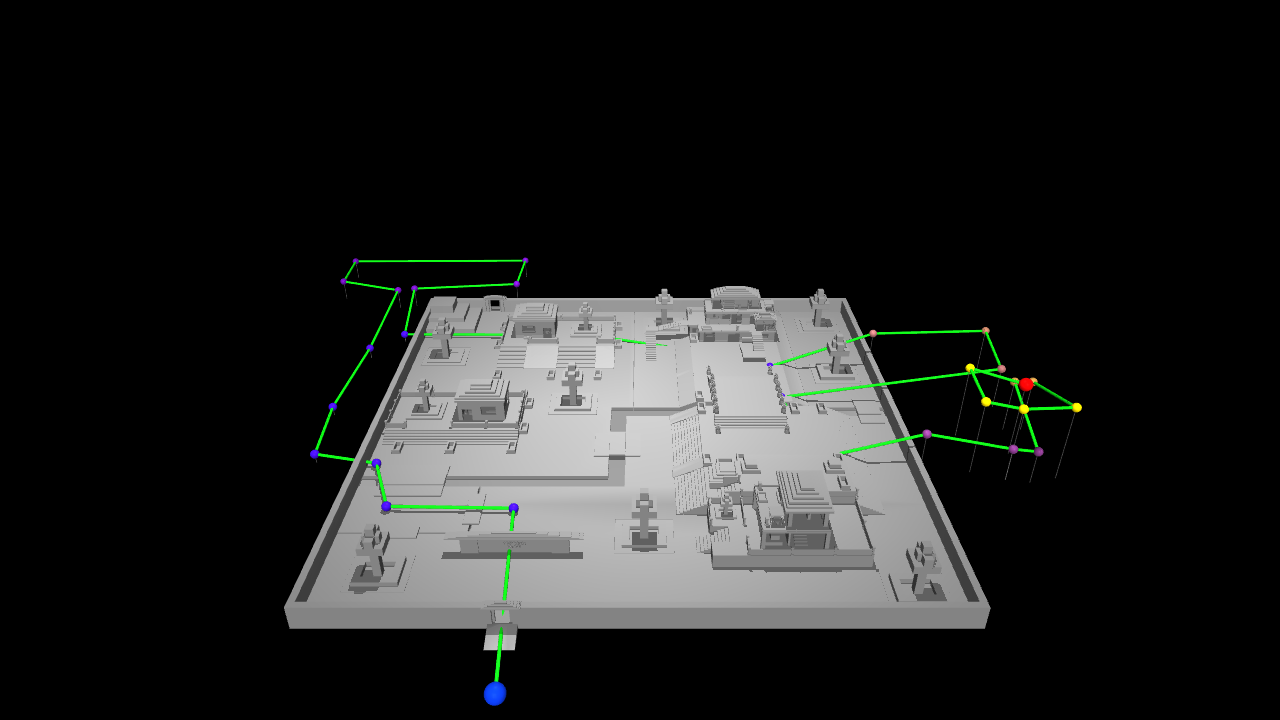
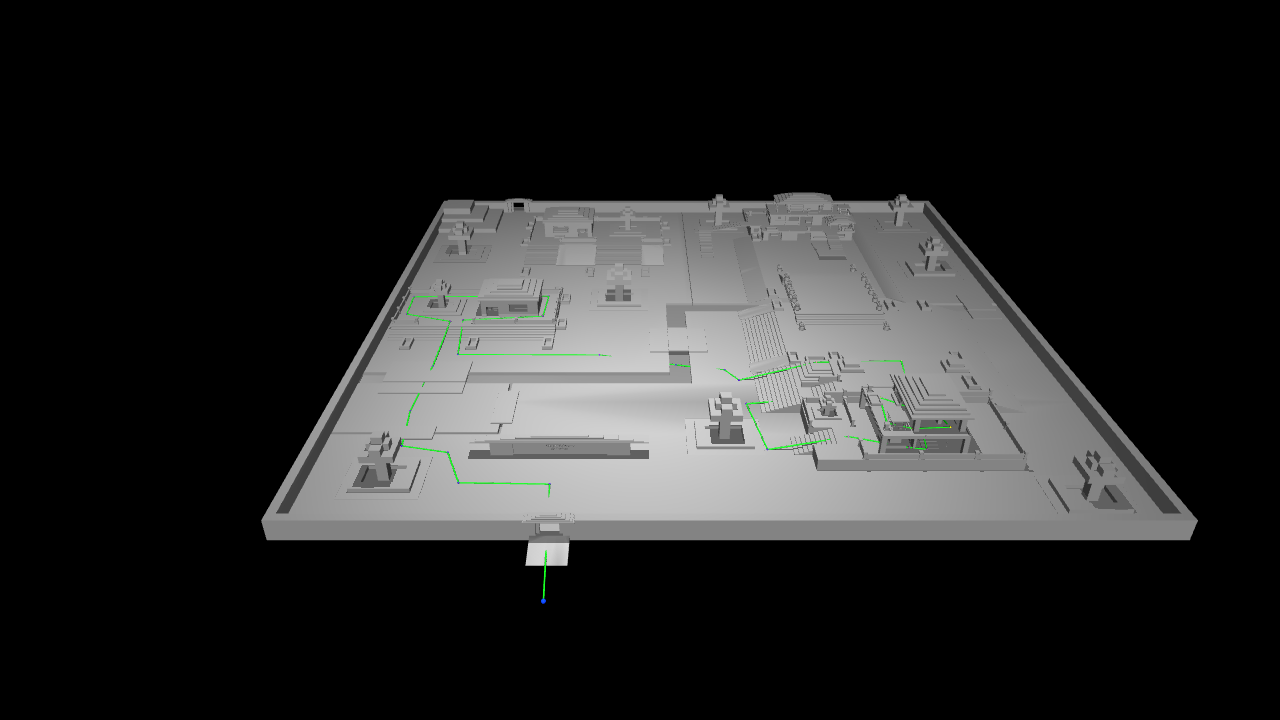
add track timer

Changed region(s): [[0.1875, 0.2444, 0.9375, 0.9778], [0.25, 0.3667, 0.2812, 0.3972]]

diff --git a/src/S10_sdk_deploy/interface/robot/simulation/mujoco_simulation_ros2.py b/src/S10_sdk_deploy/interface/robot/simulation/mujoco_simulation_ros2.py
@@ -47,6 +47,10 @@ CAMERA_ELEVATION = -25
 CAMERA_DISTANCE = 3.0
 COLLISION_GEOM_GROUP = 1
 TRACK_START_BASE_POS = np.array([0.0, -2.5, 0.2])
+TRACK_REACH_RADIUS = float(os.environ.get("S10_TRACK_REACH_RADIUS", "0.2"))
+TRACK_DISTANCE_MODE = os.environ.get("S10_TRACK_DISTANCE_MODE", "xy").lower()
+TRACK_WAYPOINT_PREFIX = "track_waypoint_"
+TRACK_HEIGHT_POST_PREFIX = "track_height_post_"
 
 # Calibaration parameters (for sim-to-real consistency)
 JOINT_DIR = np.array([1, 1, -1, 1, 1, -1, 1, -1, -1, 1, -1, 1, -1, -1, 1, -1], dtype=np.float32)
@@ -107,6 +111,7 @@ class MuJoCoSimulationNode(Node):
 
         # 初始化站立姿态
         self._set_initial_pose(model_key)
+        self._init_track_progress()
 
         # 缓存
         self.kp_cmd = np.zeros((self.dof_num, 1), np.float32)
@@ -149,6 +154,121 @@ class MuJoCoSimulationNode(Node):
         qpos0[3:7] = np.array([1, 0, 0, 0])
         self.data.qpos[:] = qpos0
         mujoco.mj_forward(self.model, self.data)
+
+    def _track_geom_index(self, name: str, prefix: str):
+        if not name or not name.startswith(prefix):
+            return None
+        suffix = name[len(prefix):]
+        index_text = suffix.split("_", 1)[0]
+        if not index_text.isdigit():
+            return None
+        return int(index_text)
+
+    def _find_track_geoms(self):
+        waypoint_geoms = {}
+        point_related_geoms = {}
+        for geom_id in range(self.model.ngeom):
+            name = mujoco.mj_id2name(self.model, mujoco.mjtObj.mjOBJ_GEOM, geom_id)
+            waypoint_index = self._track_geom_index(name, TRACK_WAYPOINT_PREFIX)
+            if waypoint_index is not None:
+                waypoint_geoms[waypoint_index] = geom_id
+                point_related_geoms.setdefault(waypoint_index, []).append(geom_id)
+                continue
+
+            post_index = self._track_geom_index(name, TRACK_HEIGHT_POST_PREFIX)
+            if post_index is not None:
+                point_related_geoms.setdefault(post_index, []).append(geom_id)
+
+        return waypoint_geoms, point_related_geoms
+
+    def _init_track_progress(self):
+        self.track_enabled = False
+        self.track_complete = False
+        self.track_next_index = 0
+        self.track_start_time = None
+        self.track_finish_time = None
+        self.track_waypoint_positions = np.empty((0, 3), dtype=np.float64)
+        self.track_point_geom_ids = {}
+
+        waypoint_geoms, point_related_geoms = self._find_track_geoms()
+        if not waypoint_geoms:
+            return
+
+        expected_indices = list(range(max(waypoint_geoms) + 1))
+        missing = [index for index in expected_indices if index not in waypoint_geoms]
+        if missing:
+            self.get_logger().warn(f"Track progress disabled; missing waypoint geoms: {missing}")
+            return
+
+        self.track_waypoint_geom_ids = [waypoint_geoms[index] for index in expected_indices]
+        self.track_point_geom_ids = {
+            index: point_related_geoms.get(index, [waypoint_geoms[index]])
+            for index in expected_indices
+        }
+        self.track_waypoint_positions = np.array(
+            [self.data.geom_xpos[geom_id].copy() for geom_id in self.track_waypoint_geom_ids],
+            dtype=np.float64,
+        )
+        self.track_original_rgba = {
+            geom_id: self.model.geom_rgba[geom_id].copy()
+            for geom_ids in self.track_point_geom_ids.values()
+            for geom_id in geom_ids
+        }
+        self.track_body_id = mujoco.mj_name2id(self.model, mujoco.mjtObj.mjOBJ_BODY, TRACK_BODY_NAME)
+        if self.track_body_id < 0:
+            self.get_logger().warn(f"Track progress disabled; cannot find body '{TRACK_BODY_NAME}'")
+            return
+
+        self.track_enabled = True
+        self.get_logger().info(
+            f"[INFO] Track progress enabled: {len(self.track_waypoint_positions)} waypoints, "
+            f"radius={TRACK_REACH_RADIUS:.3f}m, distance_mode={TRACK_DISTANCE_MODE}"
+        )
+
+    def _hide_track_point(self, waypoint_index: int):
+        for geom_id in self.track_point_geom_ids.get(waypoint_index, []):
+            self.model.geom_rgba[geom_id, 3] = 0.0
+
+    def _track_distance(self, robot_pos: np.ndarray, waypoint_pos: np.ndarray) -> float:
+        if TRACK_DISTANCE_MODE == "xyz":
+            return float(np.linalg.norm(robot_pos - waypoint_pos))
+        return float(np.linalg.norm(robot_pos[:2] - waypoint_pos[:2]))
+
+    def _update_track_progress(self):
+        if not self.track_enabled or self.track_complete:
+            return
+        if self.track_next_index >= len(self.track_waypoint_positions):
+            return
+
+        robot_pos = self.data.xpos[self.track_body_id]
+        waypoint_pos = self.track_waypoint_positions[self.track_next_index]
+        distance = self._track_distance(robot_pos, waypoint_pos)
+        if distance > TRACK_REACH_RADIUS:
+            return
+
+        reached_index = self.track_next_index
+        self._hide_track_point(reached_index)
+
+        if reached_index == 0 and self.track_start_time is None:
+            self.track_start_time = self.timestamp
+            self.get_logger().info(
+                f"[TRACK] Timer started at waypoint 0, sim_time={self.track_start_time:.3f}s"
+            )
+        else:
+            self.get_logger().info(
+                f"[TRACK] Reached waypoint {reached_index}, sim_time={self.timestamp:.3f}s, "
+                f"distance={distance:.3f}m"
+            )
+
+        self.track_next_index += 1
+        if self.track_next_index >= len(self.track_waypoint_positions):
+            self.track_complete = True
+            self.track_finish_time = self.timestamp
+            elapsed = 0.0 if self.track_start_time is None else self.track_finish_time - self.track_start_time
+            self.get_logger().info(
+                f"[TRACK] Final waypoint reached. Timer stopped at sim_time={self.track_finish_time:.3f}s, "
+                f"elapsed={elapsed:.3f}s"
+            )
 
     def _configure_viewer(self):
         base_body_id = mujoco.mj_name2id(self.model, mujoco.mjtObj.mjOBJ_BODY, TRACK_BODY_NAME)
@@ -200,6 +320,7 @@ class MuJoCoSimulationNode(Node):
                 mujoco.mj_step(self.model, self.data)
 
                 self.timestamp = step * DT
+                self._update_track_progress()
 
                 # 采样 & 发送观测 (every 5 steps for 200 Hz)
                 if step % 5 == 0:

diff --git a/track/scripts/visualize_track.py b/track/scripts/visualize_track.py
@@ -75,7 +75,7 @@ def draw_projection(
     ax.scatter(
         x_values[1:],
         y_values[1:],
-        s=70,
+        s=35,
         color="red",
         edgecolor="black",
         linewidth=0.8,
@@ -85,7 +85,7 @@ def draw_projection(
         x_values[0],
         y_values[0],
         marker="^",
-        s=260,
+        s=130,
         color="blue",
         label="start",
         zorder=4,
@@ -94,7 +94,7 @@ def draw_projection(
         x_values[-1],
         y_values[-1],
         marker="*",
-        s=260,
+        s=130,
         color="red",
         label="end",
         zorder=5,
@@ -123,13 +123,13 @@ def visualize(waypoints: list[dict[str, float | int | str]], labels: bool) -> pl
         y,
         c=z,
         cmap="plasma",
-        s=78,
+        s=39,
         edgecolor="black",
         linewidth=0.8,
         zorder=3,
     )
-    axes[0].scatter(x[0], y[0], marker="^", s=260, color="blue", label="start", zorder=4)
-    axes[0].scatter(x[-1], y[-1], marker="*", s=260, color="red", label="end", zorder=5)
+    axes[0].scatter(x[0], y[0], marker="^", s=130, color="blue", label="start", zorder=4)
+    axes[0].scatter(x[-1], y[-1], marker="*", s=130, color="red", label="end", zorder=5)
     if labels:
         add_labels(axes[0], x[1:], y[1:], ids[1:])
     axes[0].set_title("Top-Down (XY) View")

diff --git a/track/scripts/mujoco_track_viewer.py b/track/scripts/mujoco_track_viewer.py
@@ -272,7 +272,7 @@ def parse_args() -> argparse.Namespace:
     parser.add_argument("--base-scene", type=Path, default=DEFAULT_BASE_SCENE, help="Base MJCF scene.xml to load.")
     parser.add_argument("--xml-out", type=Path, default=DEFAULT_XML, help="Generated MJCF output path.")
     parser.add_argument("--line-radius", type=float, default=0.07, help="Rendered track tube radius.")
-    parser.add_argument("--marker-radius", type=float, default=0.21, help="Rendered waypoint sphere radius.")
+    parser.add_argument("--marker-radius", type=float, default=0.105, help="Rendered waypoint sphere radius.")
     parser.add_argument("--post-radius", type=float, default=0.0225, help="Vertical height guide radius.")
     parser.add_argument("--no-posts", action="store_true", help="Hide vertical height guide posts.")
     parser.add_argument("--speed", type=float, default=3.0, help="Playback speed in meters per second.")

diff --git a/track/scripts/select_track_points.py b/track/scripts/select_track_points.py
@@ -347,7 +347,7 @@ def parse_args() -> argparse.Namespace:
     parser.add_argument("--out-csv", type=Path, default=DEFAULT_CSV, help="Output CSV file.")
     parser.add_argument("--name", default="new_scene_track", help="Track name stored in the JSON output.")
     parser.add_argument("--z-offset", type=float, default=0.025, help="Height added to clicked surface points.")
-    parser.add_argument("--marker-radius", type=float, default=0.21)
+    parser.add_argument("--marker-radius", type=float, default=0.105)
     parser.add_argument("--line-radius", type=float, default=0.07)
     parser.add_argument("--post-radius", type=float, default=0.0225)
     parser.add_argument("--no-posts", dest="show_posts", action="store_false", help="Hide vertical height guide posts.")

diff --git a/track/README.md b/track/README.md
@@ -17,6 +17,8 @@ This folder contains the track data and tools. The MuJoCo tools load the scene f
 
 The ROS sim-to-sim entrypoint uses `src/S10_sdk_deploy/S10_description/s10_mjcf/mjcf/S10_track.xml` by default. That MJCF keeps the S10 robot unscaled and includes the `0.75` x/y scaled scene plus `track_overlay.xml`.
 
+In the ROS simulator, track waypoints are reached in sequence. The timer starts at waypoint 0, reached waypoints disappear from the viewer, and the final waypoint stops the timer. The default reach radius is `0.2 m` in the horizontal plane; set `S10_TRACK_REACH_RADIUS` or `S10_TRACK_DISTANCE_MODE=xyz` before launching if needed.
+
 ## Setup
 
 From this folder, install dependencies if needed:

diff --git a/README.md b/README.md
@@ -41,6 +41,8 @@ The MuJoCo simulator loads the scaled track scene by default through `S10_track.
 python3 src/S10_sdk_deploy/interface/robot/simulation/mujoco_simulation_ros2.py --scene track
 ```
 
+During the track scene, waypoint progress is checked in order. When the robot base enters a `0.2 m` horizontal radius of waypoint 0, the timer starts and that waypoint disappears. Each following waypoint disappears only after the previous one has been reached. When the final waypoint is reached, the timer stops and the elapsed simulation time is printed in the terminal.
+
 To use the previous stair scene wrapper instead:
 
 ```bash
